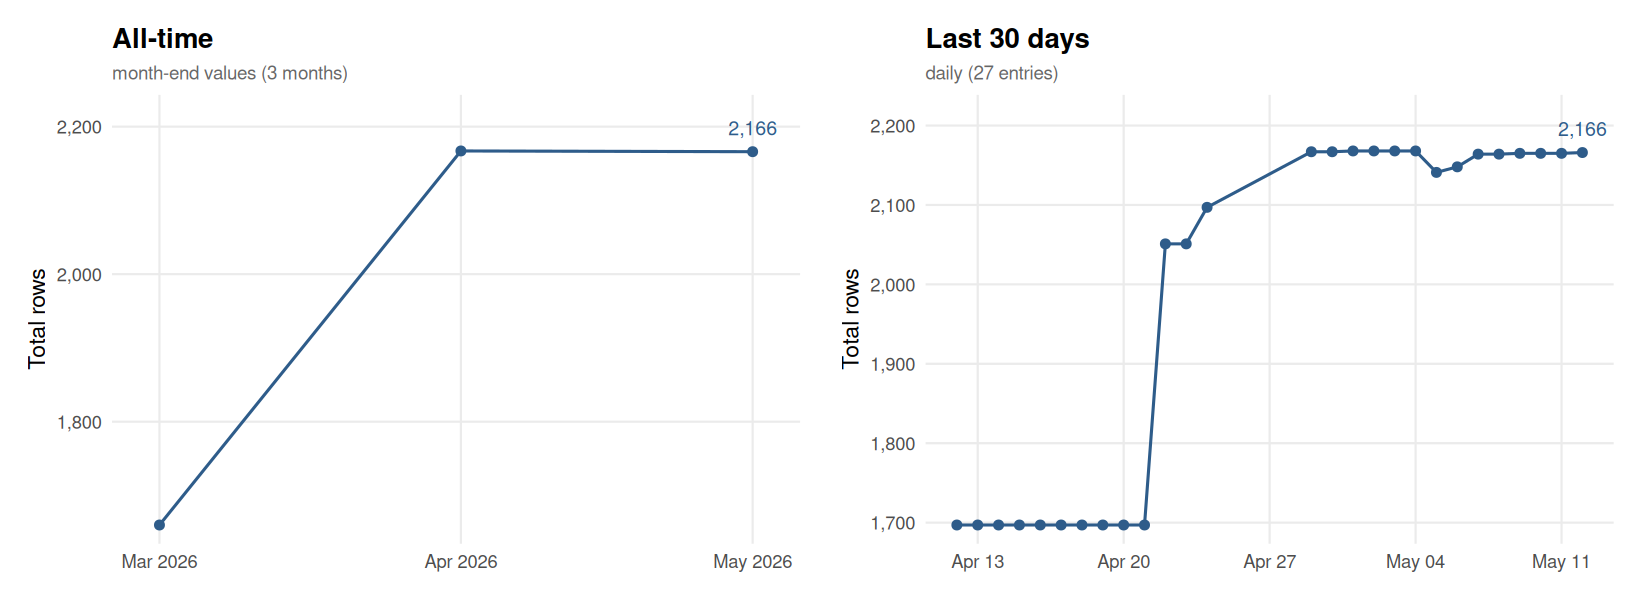
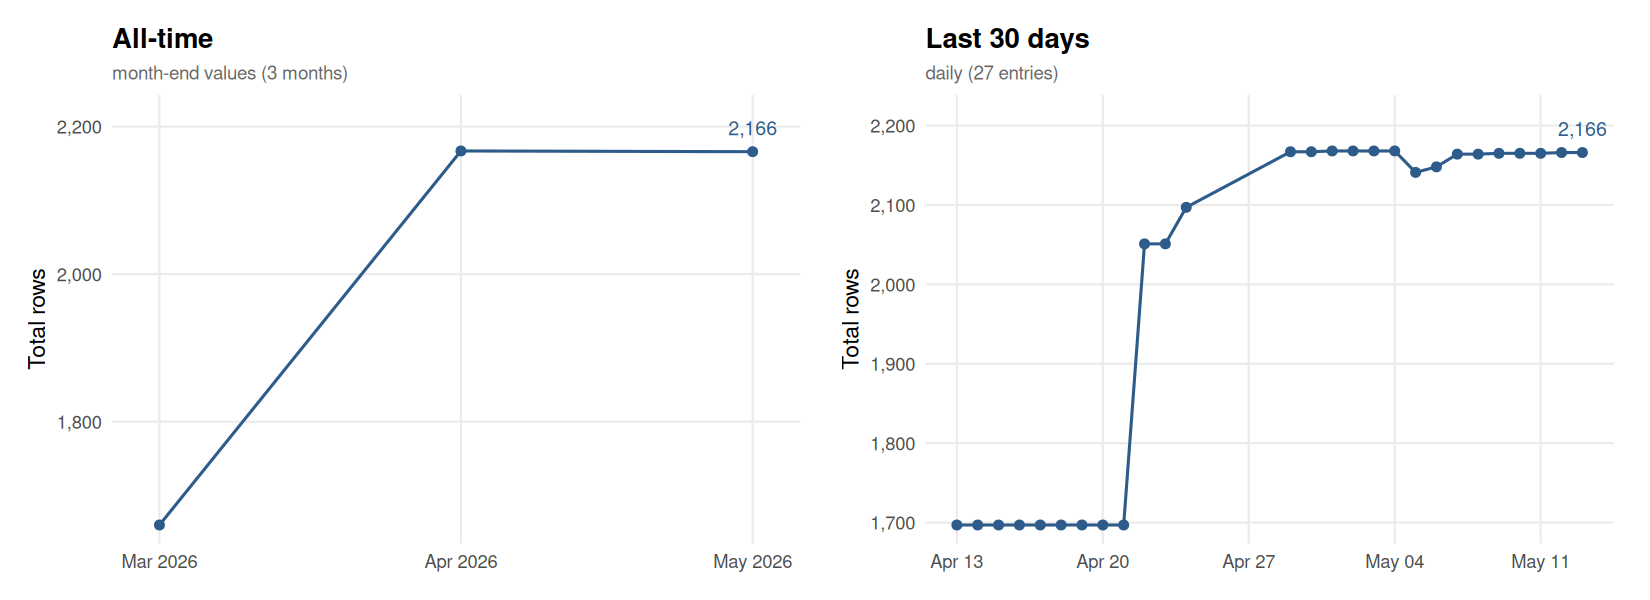
Update flora.csv [automated]

diff --git a/README.md b/README.md
@@ -438,14 +438,15 @@ For API issues:
 This chart is automatically updated after each pipeline run, showing the size of `output/flora.csv` over time.
 
 <!-- FLORA_UPDATE_LOG_START -->
-> **Latest (2026-05-12):** Total = 2,166 | Replications = 2,157 | Reproductions = 9
+> **Latest (2026-05-13):** Total = 2,166 | Replications = 2,157 | Reproductions = 9
 
 ![FLoRA dataset size over time](output/flora_history.png)
 
-<details><summary>Full history (54 entries)</summary>
+<details><summary>Full history (55 entries)</summary>
 
 | Date | Total | Replications | Reproductions |
 |------|------:|-------------:|--------------:|
+| 2026-05-13 | 2166 | 2157 | 9 |
 | 2026-05-12 | 2166 | 2157 | 9 |
 | 2026-05-11 | 2165 | 2156 | 9 |
 | 2026-05-10 | 2165 | 2156 | 9 |
